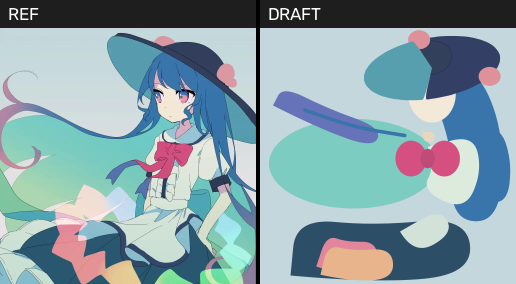
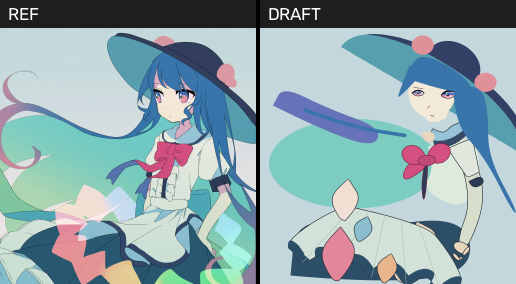
M3b verified and rubric-reviewed: E lands (5/4), B fails (1/2) — M3 open; contested A settled by measurement at 2

Changed region(s): [[0.5581, 0.0845, 1.0, 1.0]]

diff --git a/.scratch/13-assembly/log.md b/.scratch/13-assembly/log.md
@@ -833,3 +833,72 @@ M2 z-order fix), `hair-mass` can cover the crown; in the reference the crown is 
 the brim with the hair below it. Candidate fix: the crown needs to paint *above* the hair while the
 brim stays below it — i.e. the hat's two parts belong on different sides of the hair, which is the same
 P17 z-split logic the brim already uses. Recorded for the hat work.
+
+## M3b exit verification (parent, resuming after session restart)
+
+The previous session ended after the M3b writer's evidence landed but before it was verified and
+reviewed. Verification, done by the parent:
+
+- **Reproduction:** `relate.py spec.yaml → render --size 1024x1024` reproduces
+  `evidence/m3b-final.png` **byte-identical**. The writer's render is genuine. (First two render
+  attempts hung — a stale `chrome-headless-shell` process; killed it and rendering is normal again.)
+- **G2 alarm FIRES:** coverage **0.535** vs floor 0.571 (floor − 0.01 = 0.561). color_dist 59.3 OK,
+  edge_f1 0.213 (diagnostic only).
+- **Alarm located and explained structurally, not tuned.** Per-cell coverage loss vs the M2 floor is
+  concentrated in the lower lap (worst cells: x512/y768 0.63→0.02, x512/y896 0.55→0.07, x384/y896
+  0.55→0.26, x640/y896 0.55→0.07). Pixel inspection of the worst cell shows the mechanism: the
+  reference there is mostly pale field **with small dark details** (fold/shadow/hair-tip streaks).
+  M2's broad dark lap fills covered those dark reference pixels *accidentally*; M3b's corrected pale
+  lap with the occlusion fix no longer paints dark there, so those reference pixels are unmatched.
+  Two components, to be weighed by the reviewers and measurement, not by the metric:
+  1. partly a **false alarm** — M2 was being credited for wrong-coloured masses that happened to
+     match dark detail;
+  2. partly a **real omission** — the navy underskirt/shadow detail does not show where the
+     reference is genuinely dark in the lap (candidate next slice: extend/shade the underskirt
+     where the reference's lap is dark, a structural statement, not a metric nudge).
+- Verdict deferred to the rubric (D30: G8 primary, G2 alarm ⇒ investigate, and this investigation is
+  the record). Two independent sight-proven reviewers dispatched on the standard bundle.
+
+### M3b rubric verdict (rubric v2, first use) — M3 does NOT exit
+
+Both reviewers SIGHTED: all three proof facts check against the repo's measurements (mint wave,
+right edge ≈x700–720 vs measured 718; seated right-of-centre, head upper-right; salmon shard
+x≈250–400/y≈700–950). Bundle: `evidence/check/` (regenerated from the verified `m3b-final.png`).
+CLIP similarity 0.8356 — no regression (rubric Part III table agrees at 0.836).
+
+| axis | rev 1 | rev 2 | spread |
+| --- | --- | --- | --- |
+| A · subject identity | 2 | 4 | **2 — CONTESTED, settled below** |
+| **B · human figure** | **1** | **2** | 1 | → target B ≥ 4 **NOT met** |
+| C · silhouette coherence | 3 | 3 | 0 |
+| D · feature legibility | 4 | 3 | 1 |
+| E · occlusion correctness | 5 | 4 | 1 | → target E ≥ 4 met |
+| F · style + composition | 3 | 3 | 0 |
+
+**A settled by measurement → 2 (rev 1's score).** rev 2's A=4 contains an arithmetic error (it
+applies its own −1 face deduction yet writes 4, so its un-deducted claim was 3), and it credits
+token 4 (seated pose) while agreeing with rev 1 that *no leg or knee below the hem is readable*.
+Measurement: the drawn knee is one 76×115 px skin blob at (470,904); the reference's lap mass in
+the lower-left is ≈244×244 px at (207,780) — a sliver in the wrong place cannot carry the token.
+**Recorded A = 2.**
+
+**E is real progress (M2 floor scored E≈1.5–2): 5 and 4.** The hat-z, hair-over-shoulder, arm-front,
+bow-front and hand-front relationships all now read. This is the occlusion work landing.
+
+**Why M3 still fails — B=1/2 against a target of 4.** Both reviewers independently:
+- no readable knee/leg below the hem;
+- the left arm is missing entirely (only the viewer-right arm exists);
+- a floating purple bar (≈x60–590, y260–430) attaches to nothing (C's one lost item too);
+- the mint field is a flat tilted ellipse, not the reference's sweeping wave (F's one lost item).
+rev 1's one change: *draw the seated lap and knees reaching lower-left under the pale skirt, dark
+mass across them.* rev 2's: *redraw the mint field as one sweeping wave anchored to the left edge
+with curled tails, streaming hair strands attached to the head.* Both are one-sentence structural
+statements — **S1 does not fire**, the run continues.
+
+Also recorded: both reviewers call the face a vacant forward stare, not the target's shy downcast
+look (the −1 on A twice; D denied its 5). And rev 1 reads the hat as one hat while rev 2 does not —
+the D-anchors borderline noted at M3a persists.
+
+**Verdict: M3b is better (E) and not enough (B). M3 stays open. Next slice = the lower body's
+readability (lap/knee at reference scale and position) + the left-half structure (wave, hair
+strands, purple bar).**
